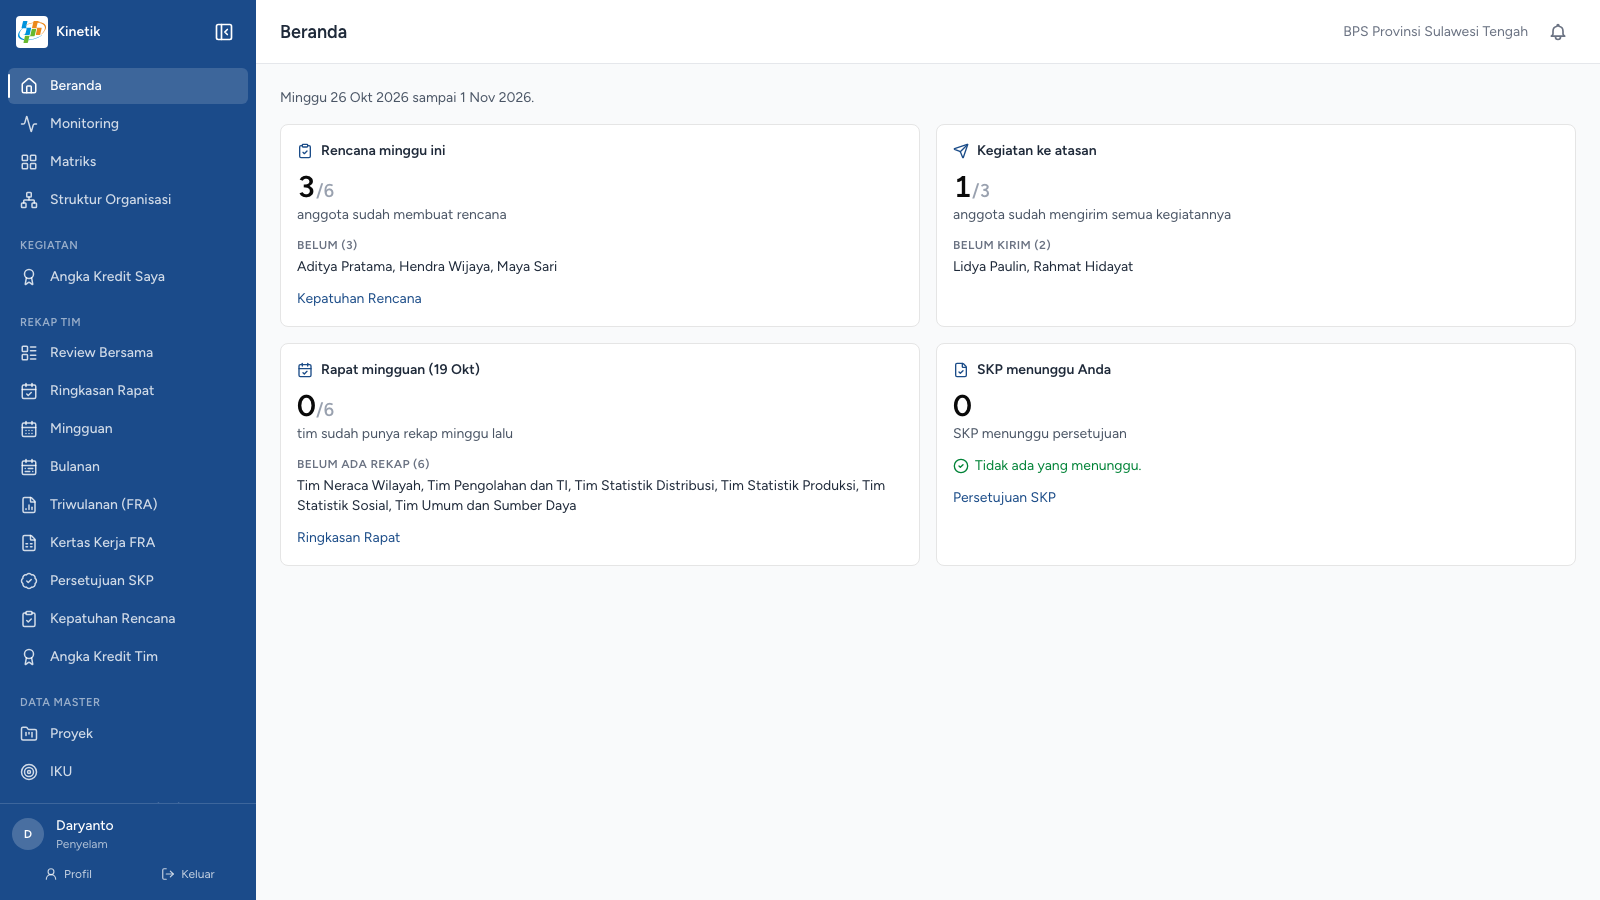
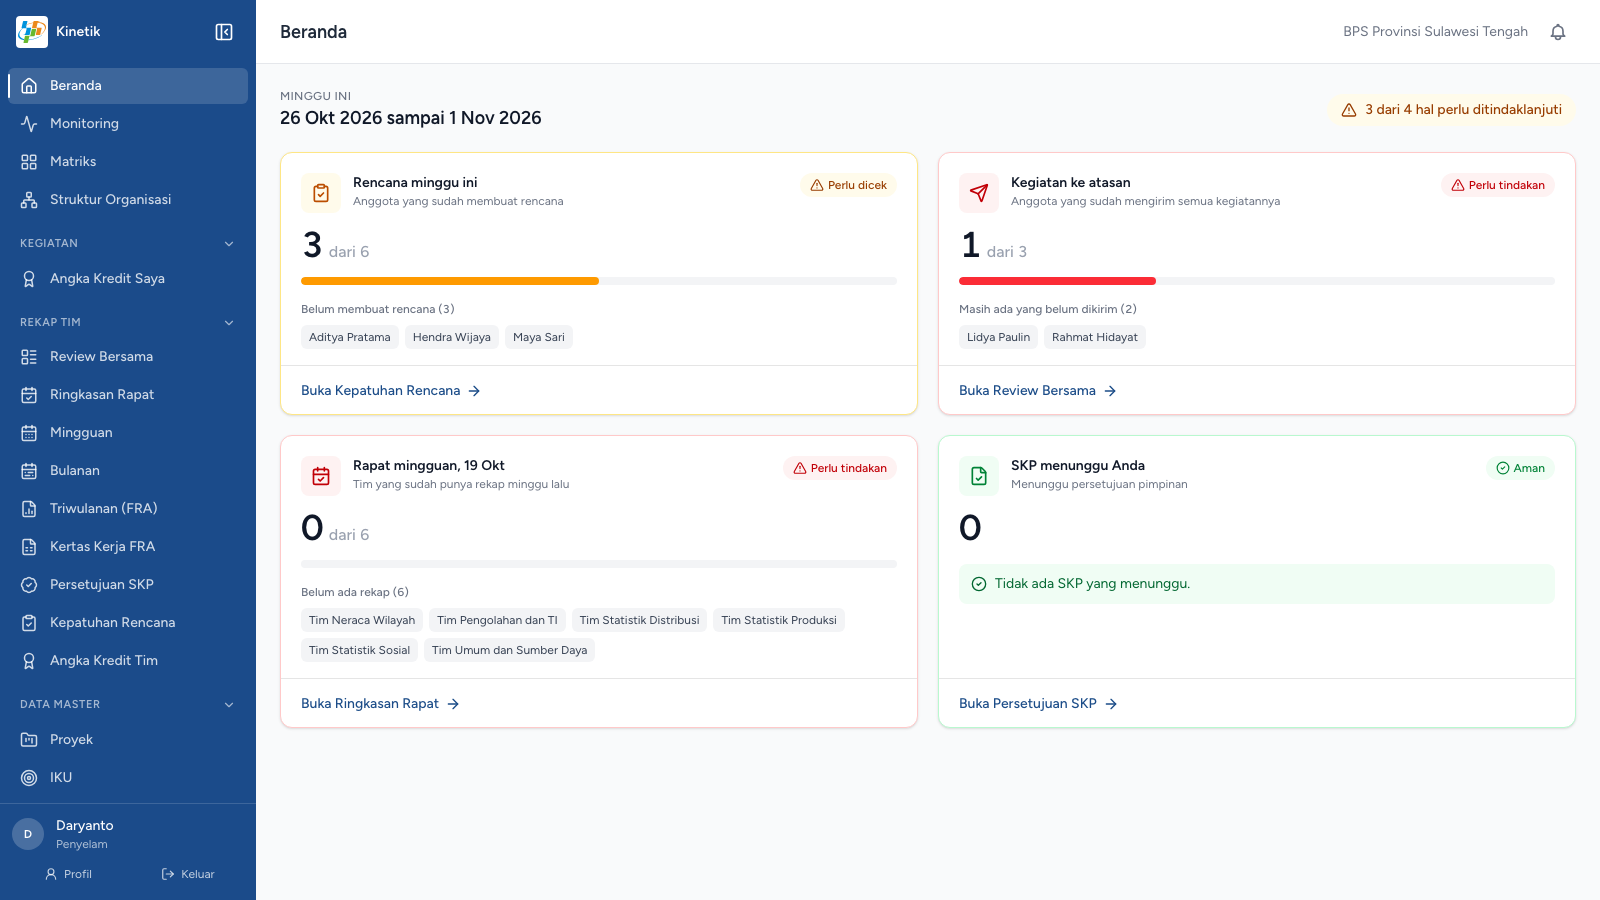
Beranda screenshot refreshed

diff --git a/components/shotData.ts b/components/shotData.ts
@@ -151,7 +151,7 @@ export const shots: Record<string, ShotDef> = {
         "src": "/shots/head-beranda.png",
         "url": "kinetik.bpssulteng.id (contoh data)",
         "steps": [
-            {"n": 1, "x": 36, "y": 16.5, "text": "Rencana minggu ini: berapa anggota sudah membuat rencana, dan siapa yang belum."},
+            {"n": 1, "x": 51, "y": 22, "text": "Rencana minggu ini: berapa anggota sudah membuat rencana, dan siapa yang belum."},
             {"n": 2, "x": 96, "y": 16.5, "text": "Kegiatan ke atasan: siapa yang belum mengirim."},
             {"n": 3, "x": 36, "y": 41, "text": "Tim yang belum punya rekap rapat mingguan minggu lalu."},
             {"n": 4, "x": 96, "y": 41, "text": "SKP yang menunggu persetujuan pimpinan."}
